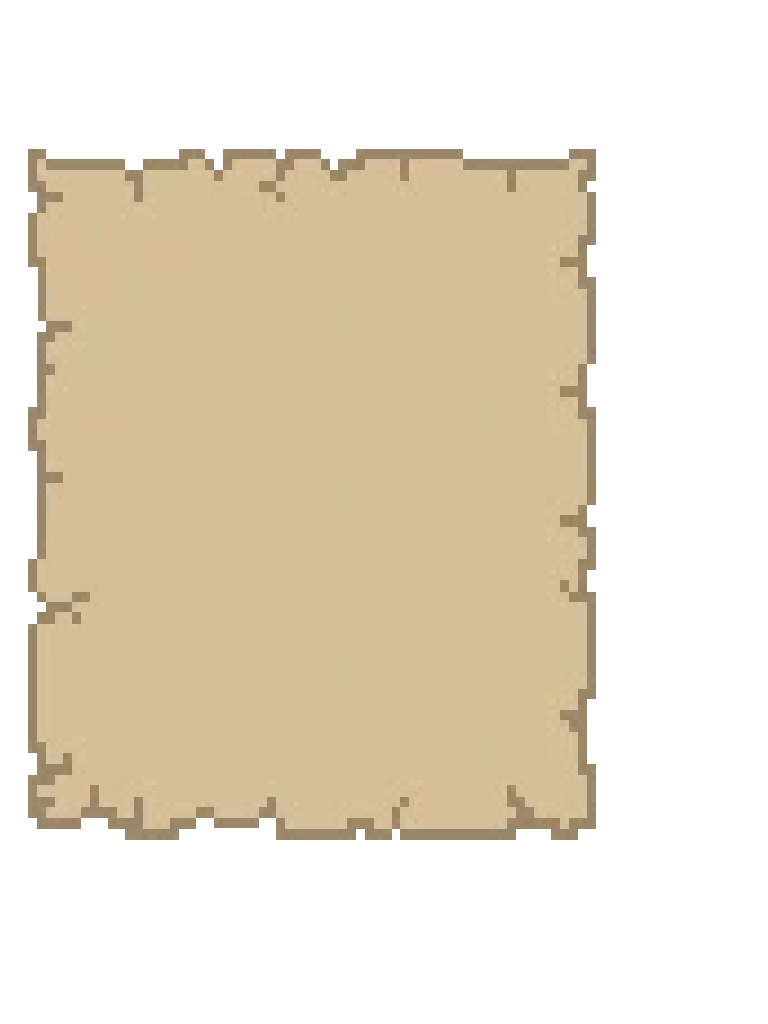
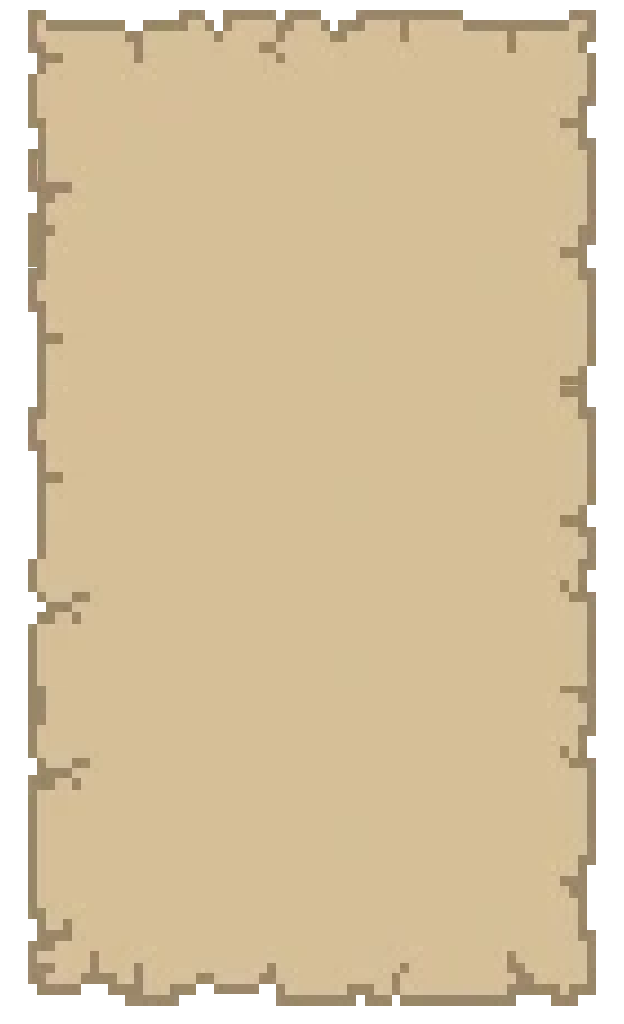
Correccion y cambio de imagen a la ventana creacion de tareas

diff --git a/Codigo/src/app/crear-tareas/crear-tarea.component.html b/Codigo/src/app/crear-tareas/crear-tarea.component.html
@@ -32,17 +32,13 @@
 
     <StackLayout class="tarea" >
         <TextField [(ngModel)]="newTarea.title" class="entradaUser" hint="Titulo"></TextField>
+        <br>
+        <TextField [(ngModel)]="newTarea.description" class="entradaUser" hint="Descripción"></TextField>
     </StackLayout>
 
     <StackLayout class="tarea" >
-        <TextField [(ngModel)]="newTarea.description" class="entradaUser" hint="Descripción"></TextField>
-    </StackLayout>
-    
-    <StackLayout class="tarea" >
        <label class ="label1" text="Fecha Limite:"></label>
-       <br>
-        <DatePicker [year]="currentYear" [month]="currentMonth" [day]="currentDay"
-    minDate="2020-01-01" maxDate="2100-12-31"></DatePicker>
+        <DatePicker minDate="2020-01-01" maxDate="2100-12-31"></DatePicker>
     </StackLayout>
     
     <StackLayout>

diff --git a/Codigo/src/app/crear-tareas/crear-tarea.component.css b/Codigo/src/app/crear-tareas/crear-tarea.component.css
@@ -19,15 +19,17 @@
     background-image: url("~/Recursos/fondoTarea.png");
     background-repeat: no-repeat;
     background-size:cover;
+    background-size: 100% 100%;
 }
 
 .tarea {
-  margin-left: 50px;
-  margin-right: 50px;
-  margin-bottom: 30px;
+  margin-left: 10%;
+  margin-right: 10%;
+  margin-bottom: 5%;
 }
 
 .botonCrear{
+    width: 80%;
     height: 50;
     font-size: 20;
     font-weight: 600;
